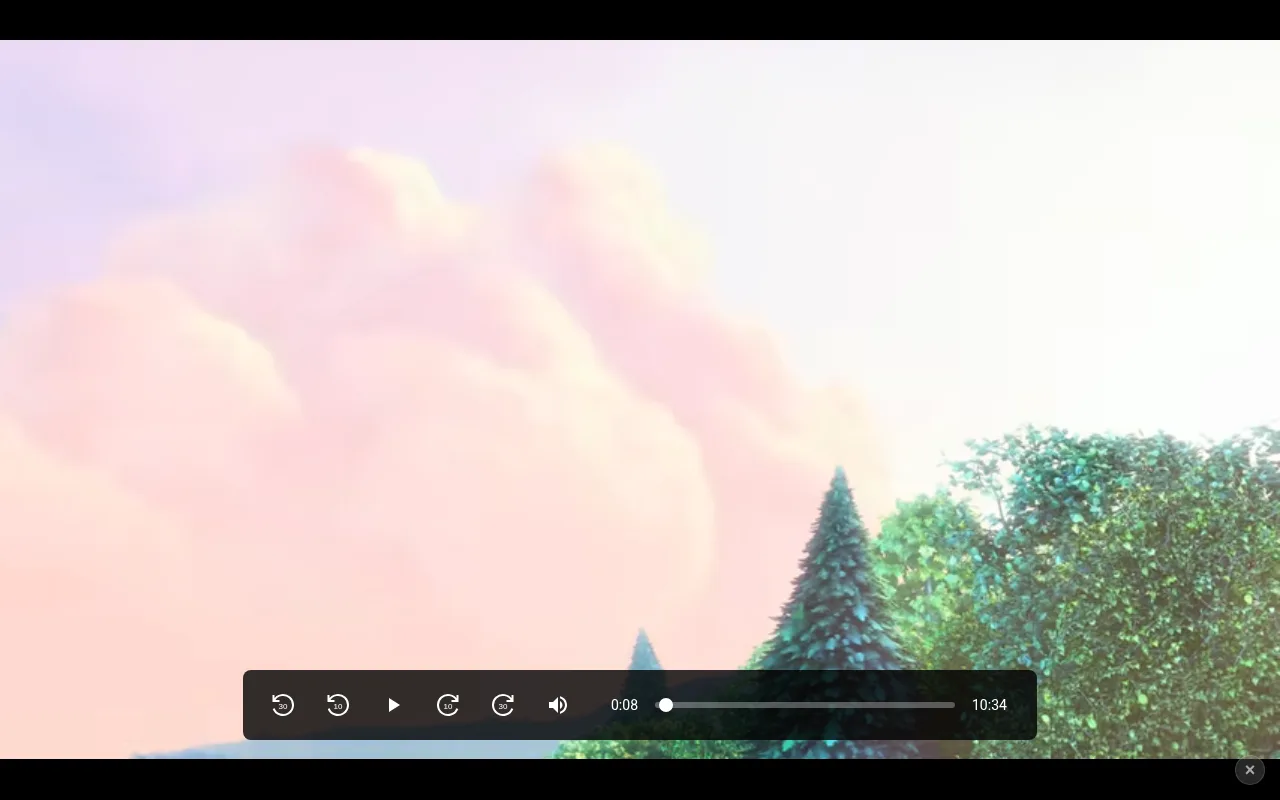
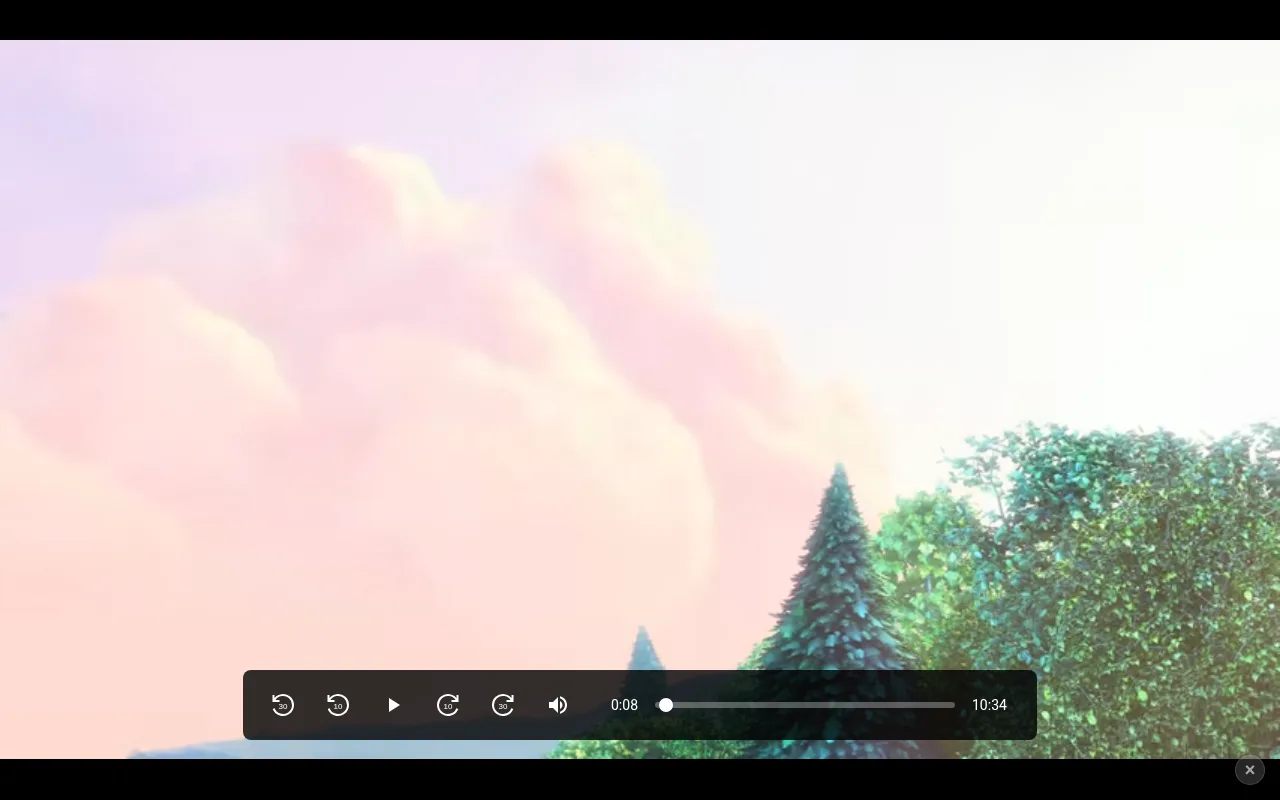
docs: 独立レビュー指摘に対応 (スクリーンショット2は未撮影と明記、設定セクションにショートカット設定を追加、右クリックメニューを撮り直し)

diff --git a/scripts/screenshots/capture.js b/scripts/screenshots/capture.js
@@ -6,8 +6,10 @@
  *
  * 撮影対象:
  *  1. オプションページ全体 (options-page.png)
- *  2. YouTube 公開動画で快適モード ON + カスタムコントロール表示 (comfort-mode.png)
- *  3. 動画上の右クリック (ブラウザ標準) メニュー (context-menu.png, X 画面キャプチャ)
+ *  2. YouTube 公開動画で快適モード ON・コントロール非表示 (comfort-mode.png)
+ *  3. 快適モード＋一時停止でカスタムコントロール表示 (comfort-controls.png)
+ *  4. 元サイトのコントロールバー有効化の状態確認 (site-controls.png, docs 未使用: 現行 YouTube ではバーが display:none のため写らない)
+ *  5. 動画上の右クリック (ブラウザ標準) メニュー (context-menu.png, X 画面キャプチャ)。サブメニューの展開は合成マウス/キー操作では再現できず、親項目の表示まで
  *
  * 出力先: tmp/screenshots/ (webp 化と docs への配置は別途行う)
  * 実行: LANG=ja_JP.UTF-8 xvfb-run -a -s "-screen 0 1400x1000x24" node scripts/screenshots/capture.js
@@ -83,20 +85,11 @@ async function main() {
     });
     console.log('video:', JSON.stringify(videoInfo));
 
-    // 診断: 全ターゲットと YouTube プレーヤー内ボタンの有無
-    const allTargets = await browser.targets();
-    allTargets.forEach((t, i) => console.log('TARGET', i, t.type(), t.url().slice(0, 90)));
-    const inlineBtn = await page.evaluate(() => {
-      const b = document.querySelector('.comfort-mode-button');
-      return b ? { found: true, title: b.title, cls: b.className } : { found: false };
-    });
-    console.log('inline button:', JSON.stringify(inlineBtn));
-
     // Service Worker 経由で背景スクリプトと同じメッセージを送信
-    const swSession = await sw.createCDPSession();
-    await swSession.send('Runtime.enable');
     // 注: manifest に tabs 権限が無いため tab.url は取得できない。
     // 全タブへ順に送信し、応答 (success) があったタブを対象とする。
+    const swSession = await sw.createCDPSession();
+    await swSession.send('Runtime.enable');
     const toggleExpr = `(async () => {
       const tabs = await chrome.tabs.query({});
       const attempts = [];
@@ -128,29 +121,9 @@ async function main() {
       if (s.comfortVideo) break;
     }
 
-    // メッセージで有効化できていなければ、プレーヤー内の公式ボタンをクリックする
-    let activated = await page.evaluate(
-      () => !!document.querySelector('.comfort-mode-video')
-    );
-    if (!activated) {
-      const btn = await page.$('.comfort-mode-button');
-      if (btn) {
-        await page.mouse.move(640, 700); // プレーヤーコントロールを表示
-        await sleep(800);
-        await btn.click();
-        console.log('inline button clicked');
-        await sleep(2000);
-      } else {
-        console.log('inline button not found for fallback click');
-      }
-    }
-
     const state = await page.evaluate(() => ({
       comfortVideo: !!document.querySelector('.comfort-mode-video'),
       controls: !!document.querySelector('#comfort-mode-custom-controls'),
-      controlsHidden: document
-        .querySelector('#comfort-mode-custom-controls')
-        ?.classList.contains('hidden'),
       exitBtn: !!document.querySelector('#comfort-mode-exit-button'),
     }));
     console.log('comfort state:', JSON.stringify(state));
@@ -164,7 +137,7 @@ async function main() {
       results.comfort = 'ok';
       console.log('comfort-mode.png saved');
 
-      // --- 2b. 一時停止してカスタムコントロール表示 ---
+      // --- 3. 一時停止してカスタムコントロール表示 ---
       await page.evaluate(() => {
         const v = document.querySelector('video');
         if (v) v.pause();
@@ -183,34 +156,70 @@ async function main() {
       await page.screenshot({ path: path.join(OUT, 'comfort-controls.png') });
       results.controls = 'ok';
       console.log('comfort-controls.png saved');
-      // 再生に戻す (右クリックメニューの見た目を通常状態にするため)
+
+      // --- 4. 元サイトのコントロールバー有効化 (下部20%に2秒ホバー) ---
       await page.evaluate(() => {
         const v = document.querySelector('video');
         if (v) v.play().catch(() => {});
       });
       await sleep(800);
-
-      // --- 3. 右クリックメニュー (X 画面ごと撮影) ---
-      // YouTube は 1 回目の右クリックで独自メニューを出すため 2 回行う
-      await page.mouse.click(640, 400, { button: 'right' });
-      await sleep(800);
-      await page.mouse.click(640, 400, { button: 'right' });
-      await sleep(1200);
-      try {
-        execSync(`import -window root "${path.join(OUT, 'context-menu.png')}"`, {
-          env: process.env,
-          timeout: 15000,
-        });
-        results.contextMenu = 'captured (要目視確認)';
-        console.log('context-menu.png saved (X capture)');
-      } catch (e) {
-        results.contextMenu = 'failed: ' + e.message;
-        console.log('context-menu capture failed:', e.message);
-      }
-      await page.mouse.click(100, 100); // メニューを閉じる
+      // 下部20%エリアのクリックで即座に有効化される経路を使う
+      await page.mouse.click(640, 760);
+      await sleep(500);
+      // YouTube 側コントロールは無操作で自動非表示になるため、小さく動かして即撮影する
+      await page.mouse.move(660, 758);
+      await sleep(300);
+      const ytpState = await page.evaluate(() => {
+        const bar = document.querySelector('.ytp-chrome-bottom');
+        if (!bar) return { found: false };
+        const cs = getComputedStyle(bar);
+        return { found: true, opacity: cs.opacity, visibility: cs.visibility, display: cs.display };
+      });
+      console.log('ytp chrome-bottom state:', JSON.stringify(ytpState));
+      results.ytpState = ytpState;
+      await page.screenshot({ path: path.join(OUT, 'site-controls.png') });
+      results.siteControls = 'ok';
+      console.log('site-controls.png saved');
     } else {
       results.comfort = 'failed: comfort mode not activated';
     }
+
+    // --- 5. 右クリックメニュー (X 画面ごと撮影) ---
+    // 快適モードの成否に依らず撮影する (開始導線の記録のため)。
+    // YouTube は 1 回目の右クリックで独自メニューを出すため 2 回行う。
+    await page.bringToFront();
+    // メニュー全体とサブメニューが画面内に収まるよう、動画の上寄りで右クリックする
+    await page.mouse.click(300, 150, { button: 'right' });
+    await sleep(800);
+    await page.mouse.click(300, 150, { button: 'right' });
+    await sleep(1200);
+    // 「Comfortable Video」親項目までキーボードで移動してサブメニューを展開する。
+    // (マウスホバー座標はメニュー高さでずれるため、キー操作の方が再現性が高い)
+    // 動画メニューの項目順: ループ / すべてのコントロールを表示 / 動画を新しいタブで開く /
+    // 動画フレームに名前を付けて保存 / 名前を付けて動画を保存 / 動画フレームをコピー /
+    // 動画アドレスをコピー / ピクチャー イン ピクチャー / 画像検索でこの動画を検索する /
+    // Comfortable Video / 検証
+    for (let i = 0; i < 10; i++) {
+      await page.keyboard.press('ArrowDown');
+      await sleep(90);
+    }
+    await page.keyboard.press('ArrowRight');
+    await sleep(1000);
+    // キー操作で展開しない場合に備え、親項目 (メニュー上端+約265px) にもホバーする
+    await page.mouse.move(500, 415);
+    await sleep(900);
+    try {
+      execSync(`import -window root "${path.join(OUT, 'context-menu.png')}"`, {
+        env: process.env,
+        timeout: 15000,
+      });
+      results.contextMenu = 'captured (要目視確認)';
+      console.log('context-menu.png saved (X capture)');
+    } catch (e) {
+      results.contextMenu = 'failed: ' + e.message;
+      console.log('context-menu capture failed:', e.message);
+    }
+    await page.mouse.click(100, 100); // メニューを閉じる
     await optPage.close().catch(() => {});
   } finally {
     await browser.close();

diff --git a/scripts/screenshots/README.md b/scripts/screenshots/README.md
@@ -20,7 +20,8 @@ LANG=ja_JP.UTF-8 xvfb-run -a -s "-screen 0 1400x1000x24" node scripts/screenshot
 | `options-page.png` | オプションページ全体 |
 | `comfort-mode.png` | YouTube 公開動画（Big Buck Bunny）で快適モード ON・コントロール非表示 |
 | `comfort-controls.png` | 快適モード＋一時停止でカスタムコントロール表示 |
-| `context-menu.png` | 動画上の右クリックメニュー（「Comfortable Video」項目）。ページ内撮影ではブラウザ標準メニューが写らないため X 画面ごとキャプチャする |
+| `site-controls.png` | 状態確認用（docs 未使用）。元サイトのコントロールバー有効化を試みた際の撮影で、現行 YouTube では `.ytp-chrome-bottom` が `display: none` のためバーは写らない |
+| `context-menu.png` | 動画上の右クリックメニュー（「Comfortable Video」親項目）。ページ内撮影ではブラウザ標準メニューが写らないため X 画面ごとキャプチャする。サブメニューの展開は合成マウス/キー操作では再現できず未撮影 |
 
 ## docs への配置
 

diff --git a/docs/user/usage.md b/docs/user/usage.md
@@ -125,7 +125,7 @@ Comfortable Videoは、ウェブ上の動画を快適に視聴するためのChr
 
 ## 設定（オプションページ）
 
-設定は拡張機能のオプションページで変更できます。基本設定（ホバー検出時間、コントロール無効化時間など）、メニュー設定、サイト別設定、表示設定（解除ボタンの透明度）があります。
+設定は拡張機能のオプションページで変更できます。基本設定（ホバー検出時間、コントロール無効化時間など）、メニュー設定、サイト別設定、表示設定（解除ボタンの透明度）、ショートカット設定があります。
 
 ![オプションページ](images/options-page.webp)
 
